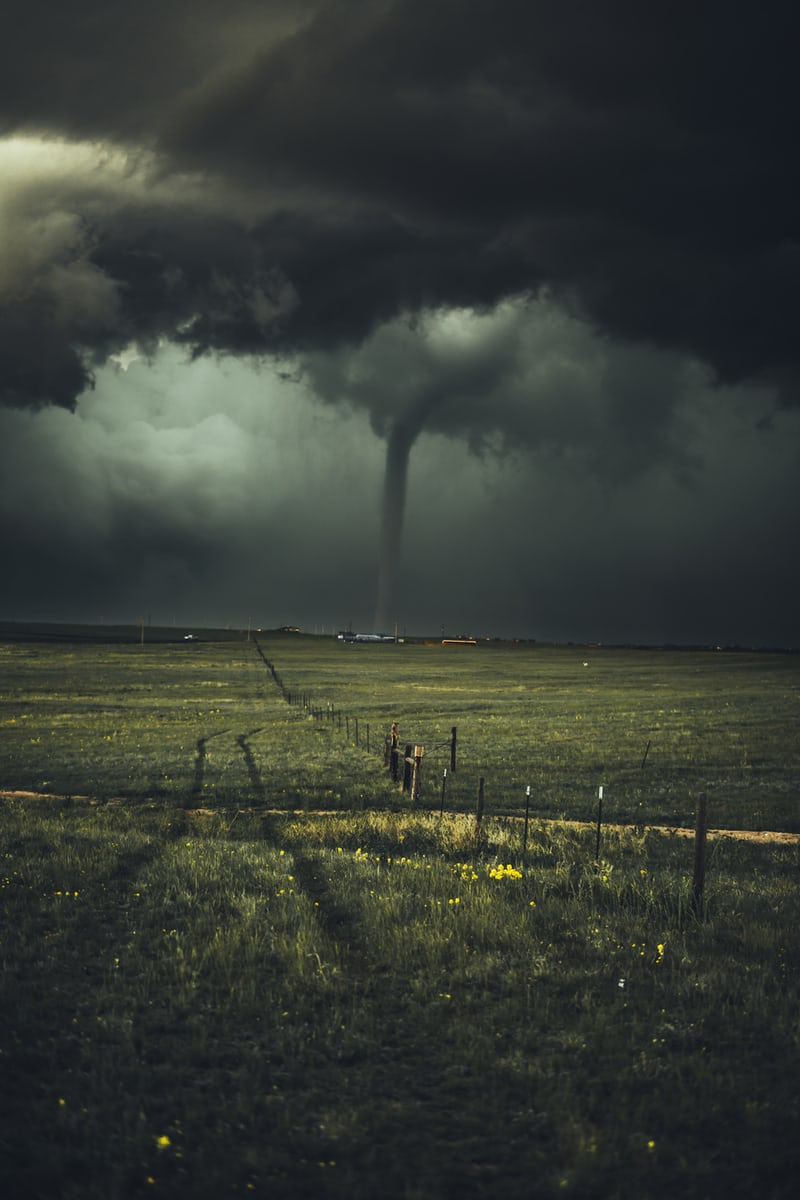
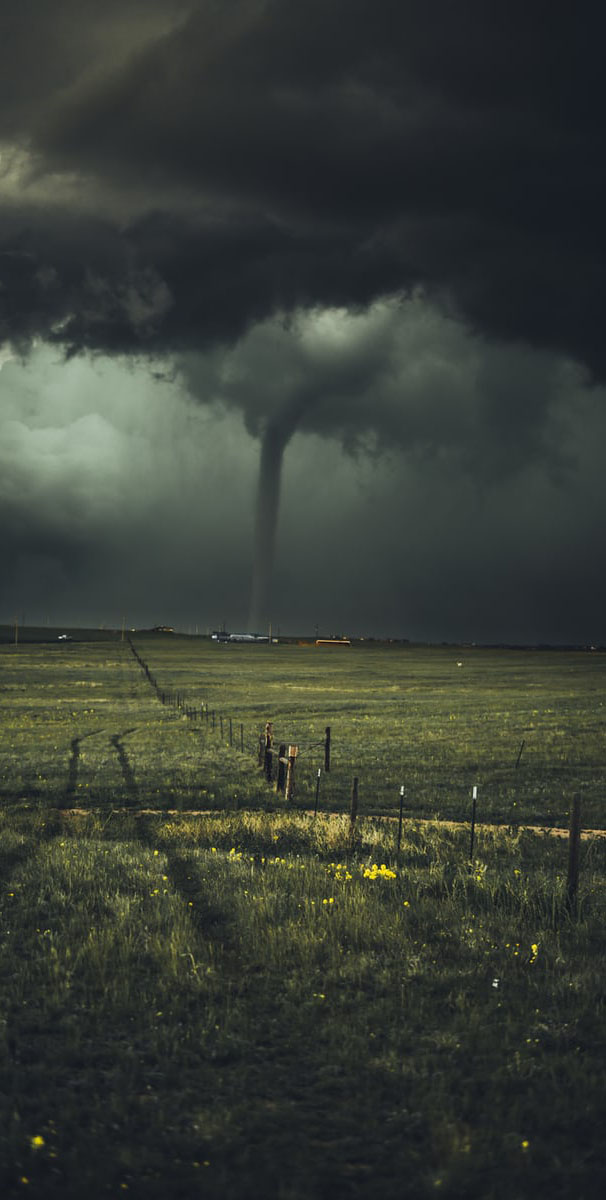
Cropped pictures

diff --git a/src/App.css b/src/App.css
@@ -18,6 +18,7 @@
     margin-left: auto;
     width: 750px;
     max-height: 729px;
+    background-size: cover;
 }
 
 .btn-search {
@@ -56,15 +57,15 @@
     height: 0;
     width: 0;
 }
-
+.Squall-image,
 .Thunderstorm-image {
     background-image: url('./images/thunderstorm.jpeg');
 }
-
+.Sand-image,
 .Clear-image {
     background-image: url('./images/clear.jpeg');
 }
-
+.Mist-image,
 .Rain-image,
 .Drizzle-image {
     background-image: url('./images/rain.jpeg');
@@ -73,12 +74,15 @@
 .Snow-image {
     background-image: url('./images/rain.jpeg');
 }
-
+.Haze-image,
+.Dust-image,
+.Fog-image,
 .Clouds-image {
     background-image: url('./images/cloudy.jpeg');
 }
-
-.Atmosphere-image {
+.Ash-image,
+.Smoke-image,
+.Tornado-image {
     background-image: url('./images/atmosphere.jpeg');
 }
 
